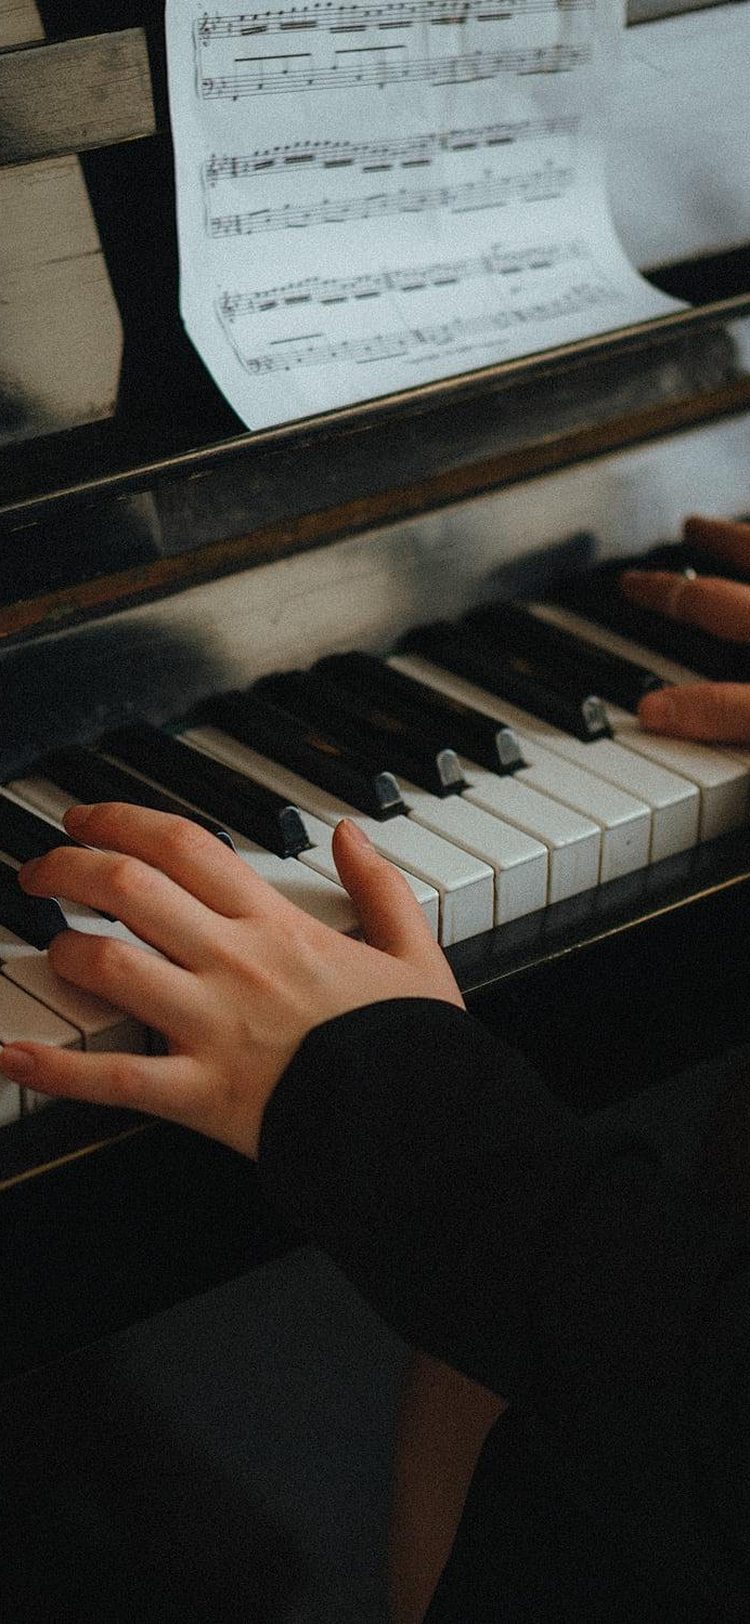
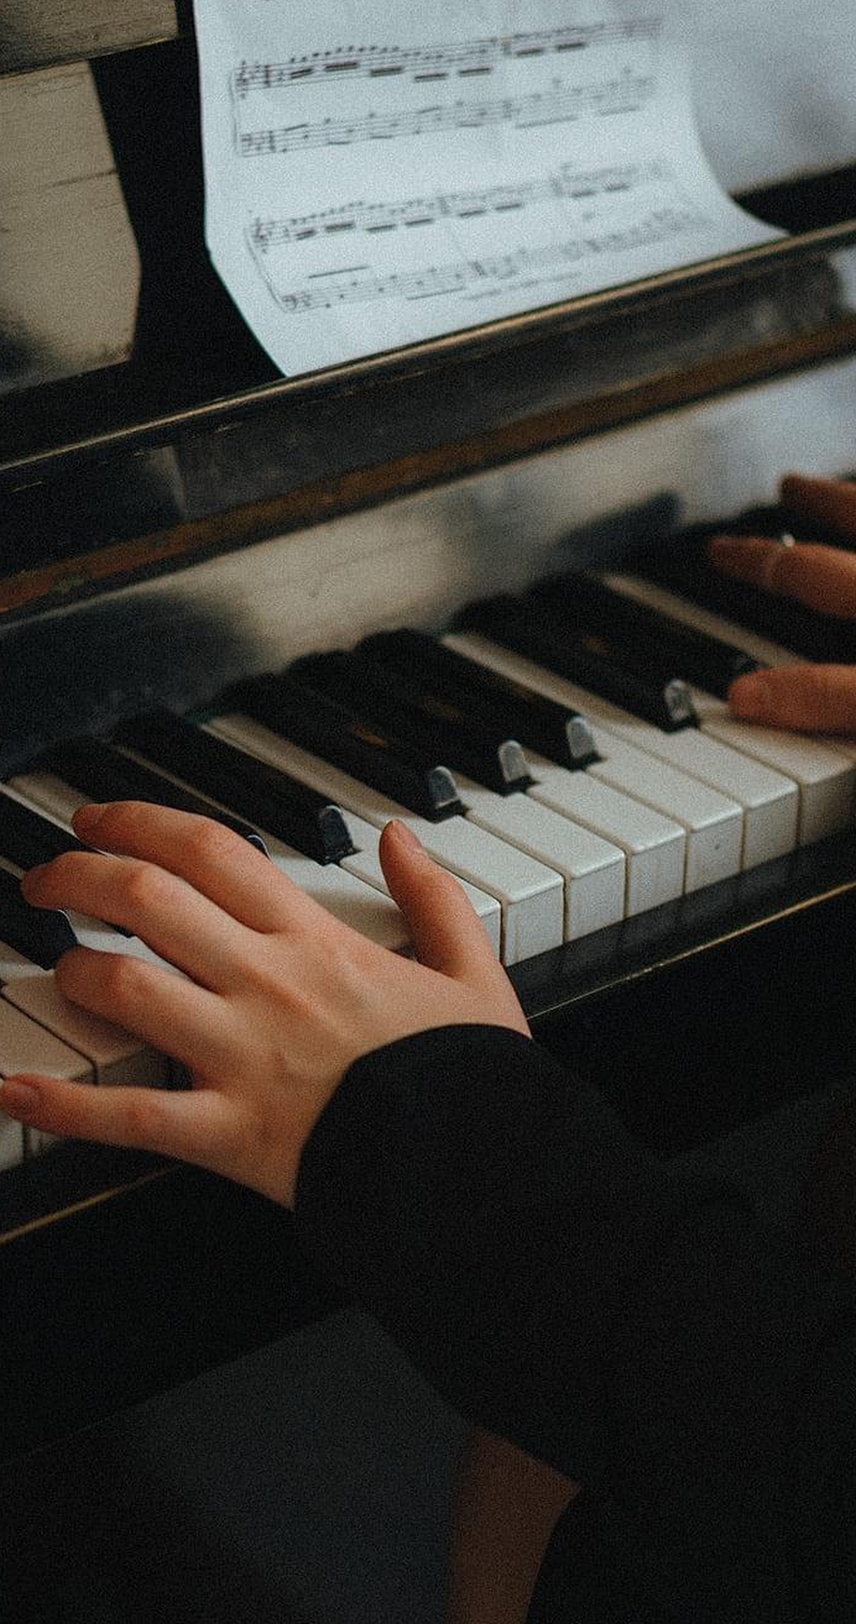
Fix companion background full-bleed and roster cancel visibility.
Use window dimensions for cover fill, restore cancel button layout, bump 1.5.98 (79).

diff --git a/src/screens/CompanionScreen.js b/src/screens/CompanionScreen.js
@@ -16,6 +16,7 @@ import {
   Keyboard,
   KeyboardAvoidingView,
   Platform,
+  useWindowDimensions,
 } from 'react-native';
 import Clipboard from '@react-native-clipboard/clipboard';
 import {Images} from '../assets/images';
@@ -541,29 +542,42 @@ export default function CompanionScreen({navigation}) {
     pieceIdx >= 0 && pieceIdx < pieces.length ? pieces[pieceIdx].name : '全部';
 
   const bgSource = bgUri ? {uri: bgUri} : Images.companionPhoto;
+  // 必须用窗口像素铺满：部分机型上 Image 会按素材 intrinsic 宽（如 375）排版，
+  // 在 iPhone 16 Pro(393) 等更宽屏右侧露出黑边。
+  const {width: winW, height: winH} = useWindowDimensions();
+  const bgFillStyle = {
+    position: 'absolute',
+    top: 0,
+    left: 0,
+    width: winW,
+    height: winH,
+    backgroundColor: '#0B0618',
+  };
 
   return (
     <View style={styles.root}>
       {/* 默认钢琴氛围图；长按可换自己的照片 */}
-      <TouchableOpacity
-        activeOpacity={1}
-        onLongPress={changeBackground}
-        style={StyleSheet.absoluteFill}
-        delayLongPress={450}>
+      <View style={styles.bgLayer} pointerEvents="box-none">
         <Image
           source={bgSource}
           defaultSource={Images.companionPhoto}
-          style={[StyleSheet.absoluteFill, {backgroundColor: '#0B0618'}]}
+          style={bgFillStyle}
           resizeMode="cover"
           onError={() => {
             if (bgUri) setBgUri(null);
           }}
         />
-      </TouchableOpacity>
+        <TouchableOpacity
+          activeOpacity={1}
+          onLongPress={changeBackground}
+          style={StyleSheet.absoluteFill}
+          delayLongPress={450}
+        />
+      </View>
       {/* 纵向渐变遮罩：底栏可读 */}
       <Image
         source={Images.companionScrim}
-        style={styles.scrim}
+        style={[styles.scrim, {width: winW, height: winH}]}
         resizeMode="stretch"
         pointerEvents="none"
       />
@@ -668,8 +682,16 @@ export default function CompanionScreen({navigation}) {
 
 const makeStyles = colors =>
   StyleSheet.create({
-  root: {flex: 1, backgroundColor: '#222'},
-  scrim: {...StyleSheet.absoluteFillObject, width: '100%', height: '100%'},
+  root: {flex: 1, backgroundColor: '#0B0618', overflow: 'hidden'},
+  bgLayer: {
+    ...StyleSheet.absoluteFillObject,
+    overflow: 'hidden',
+  },
+  scrim: {
+    position: 'absolute',
+    top: 0,
+    left: 0,
+  },
   safe: {flex: 1},
   kav: {flex: 1},
   topBar: {

diff --git a/src/screens/StudentReminderScreen.js b/src/screens/StudentReminderScreen.js
@@ -17,6 +17,7 @@ import {
   ActivityIndicator,
 } from 'react-native';
 import AsyncStorage from '@react-native-async-storage/async-storage';
+import {getItem, setItem} from '../services/storage';
 import {useTheme} from '../theme/ThemeContext';
 import ScreenHeader from '../components/ScreenHeader';
 import {getDeviceId} from '../services/device';
@@ -116,6 +117,19 @@ export default function StudentReminderScreen({navigation}) {
       remarksRef.current = {};
     }
   };
+
+  
+  // QA audit: one-shot open roster picker (verify_open_roster=1)
+  useEffect(() => {
+    (async () => {
+      try {
+        if ((await getItem('verify_open_roster')) === '1') {
+          await setItem('verify_open_roster', '');
+          setRosterPickerOpen(true);
+        }
+      } catch (e) {}
+    })();
+  }, []);
 
   useEffect(() => {
     let alive = true;
@@ -691,7 +705,7 @@ export default function StudentReminderScreen({navigation}) {
               ))}
             </ScrollView>
             <TouchableOpacity
-              style={[styles.modalBtn, styles.modalBtnGhost, styles.rosterModalCancel]}
+              style={[styles.rosterModalCancelBtn]}
               onPress={() => setRosterPickerOpen(false)}>
               <Text style={[styles.modalBtnGhostText, {textAlign: 'center'}]}>取消</Text>
             </TouchableOpacity>
@@ -850,6 +864,16 @@ const makeStyles = colors =>
     rosterModalList: {
       maxHeight: 280,
       marginTop: 4,
+    },
+    // 单独一列里不要用 modalBtn 的 flex:1，否则高度被压成 0，取消键看不见
+    rosterModalCancelBtn: {
+      marginTop: 12,
+      height: 44,
+      borderRadius: 22,
+      alignItems: 'center',
+      justifyContent: 'center',
+      alignSelf: 'stretch',
+      backgroundColor: colors.bg,
     },
     rosterModalCancel: {
       marginTop: 12,
